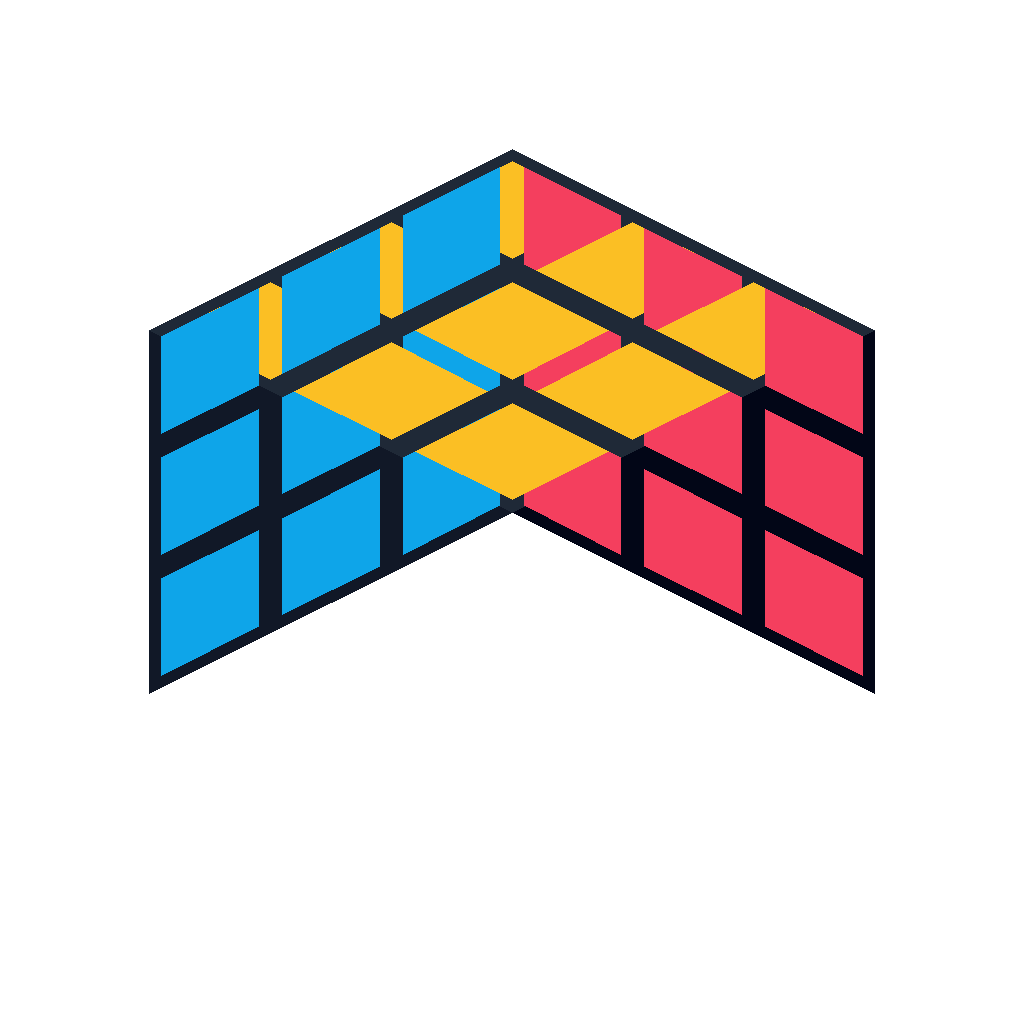
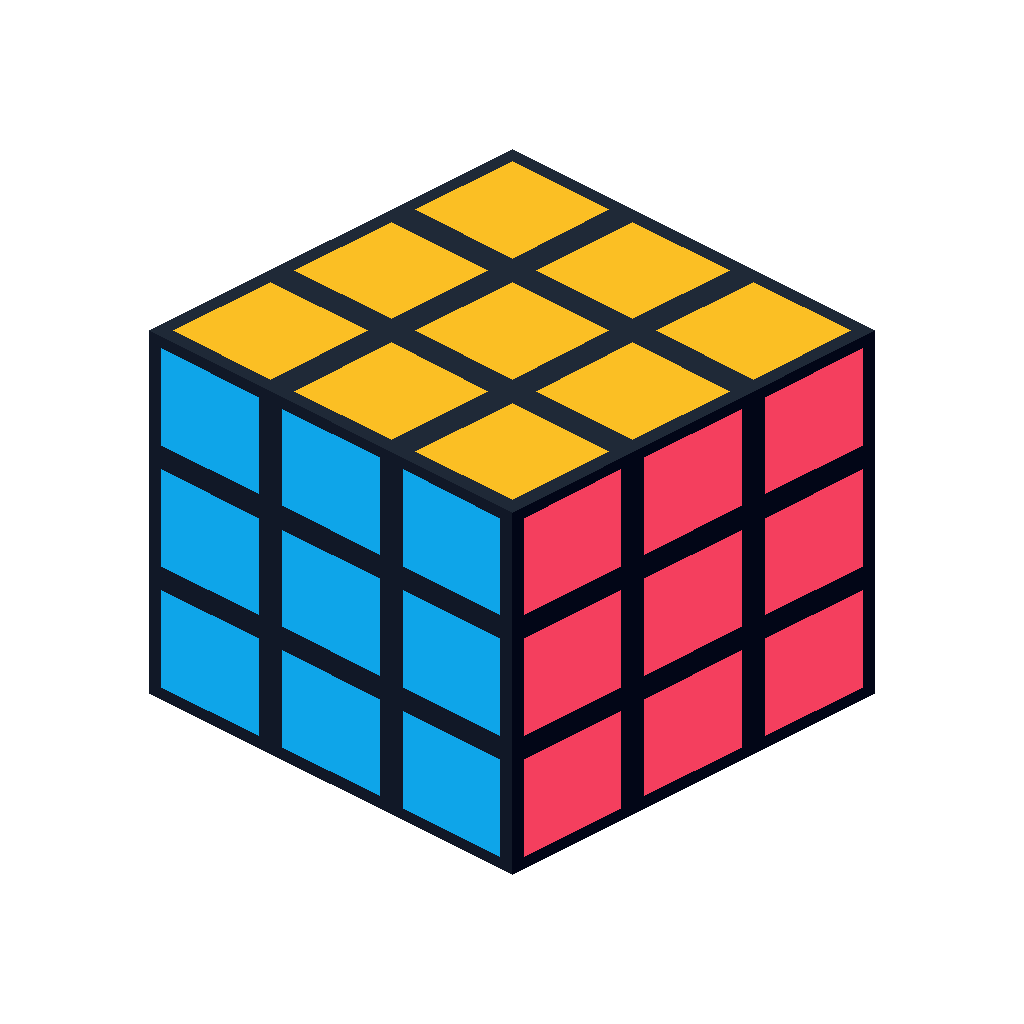
fix: compile Appearance setters, draw a solid isometric cube
setMode/setSeed/setPureBlack clashed with the generated property
setters and failed release compile. Visible cube faces are now z=3,
x=3, y=3 meeting at the front-top corner so the icon is a hexagon,
not a chevron.

Changed region(s): [[0.1562, 0.1562, 0.8438, 0.875]]

diff --git a/app/src/main/java/io/nekohasekai/sfa/compose/screen/settings/ThemeSettingsScreen.kt b/app/src/main/java/io/nekohasekai/sfa/compose/screen/settings/ThemeSettingsScreen.kt
@@ -111,21 +111,21 @@ fun ThemeSettingsScreen(navController: NavController) {
                             selected = Appearance.mode == "system",
                             icon = Icons.Outlined.PhoneAndroid,
                             label = stringResource(R.string.theme_mode_system),
-                            onClick = { Appearance.setMode("system") },
+                            onClick = { Appearance.applyMode("system") },
                         )
                         ModeChip(
                             modifier = Modifier.weight(1f),
                             selected = Appearance.mode == "light",
                             icon = Icons.Outlined.LightMode,
                             label = stringResource(R.string.theme_mode_light),
-                            onClick = { Appearance.setMode("light") },
+                            onClick = { Appearance.applyMode("light") },
                         )
                         ModeChip(
                             modifier = Modifier.weight(1f),
                             selected = Appearance.mode == "dark",
                             icon = Icons.Outlined.DarkMode,
                             label = stringResource(R.string.theme_mode_dark),
-                            onClick = { Appearance.setMode("dark") },
+                            onClick = { Appearance.applyMode("dark") },
                         )
                     }
                 }
@@ -158,7 +158,7 @@ fun ThemeSettingsScreen(navController: NavController) {
                                 seed = seed,
                                 selected = Appearance.seed == seed.id,
                                 wallpaper = seed.id == "dynamic",
-                                onClick = { Appearance.setSeed(seed.id) },
+                                onClick = { Appearance.applySeed(seed.id) },
                             )
                         }
                     }
@@ -179,7 +179,7 @@ fun ThemeSettingsScreen(navController: NavController) {
                     trailingContent = {
                         Switch(
                             checked = Appearance.pureBlack,
-                            onCheckedChange = Appearance::setPureBlack,
+                            onCheckedChange = Appearance::applyPureBlack,
                             enabled = Appearance.mode != "light",
                         )
                     },

diff --git a/app/src/main/java/io/nekohasekai/sfa/compose/theme/Appearance.kt b/app/src/main/java/io/nekohasekai/sfa/compose/theme/Appearance.kt
@@ -22,7 +22,8 @@ object Appearance {
         pureBlack = Settings.themePureBlack
     }
 
-    fun setMode(value: String) {
+    // apply* names avoid clashing with the generated property setters.
+    fun applyMode(value: String) {
         val next = when (value) {
             "light", "dark" -> value
             else -> "system"
@@ -31,12 +32,12 @@ object Appearance {
         mode = next
     }
 
-    fun setSeed(value: String) {
+    fun applySeed(value: String) {
         Settings.themeSeed = value.ifBlank { "default" }
         seed = Settings.themeSeed
     }
 
-    fun setPureBlack(value: Boolean) {
+    fun applyPureBlack(value: Boolean) {
         Settings.themePureBlack = value
         pureBlack = value
     }

diff --git a/scripts/gen_cube_icon.py b/scripts/gen_cube_icon.py
@@ -1,13 +1,16 @@
 #!/usr/bin/env python3
 """Generate a centered isometric Rubik's cube launcher icon.
 
-Visible faces (corner toward viewer) — three faces that actually meet:
-  正面 left  = x=0  sky-blue  #0EA5E9
-  侧面 right = z=0  rose      #F43F5E
+Visible faces of a solid cube (front vertical edge toward the viewer):
+  正面 left  = z=3  sky-blue  #0EA5E9
+  侧面 right = x=3  rose      #F43F5E
   顶   top   = y=3  amber     #FBBF24
 
-They meet at (0, 3, 0). Drawing x=0 and x=3 together is two opposite
-faces of the same axis, which leaves a hole and looks like an arch.
+They meet at (3, 3, 3). The silhouette is a hexagon.
+
+Wrong pairs:
+  x=0 + x=3  — two opposite faces of the same axis → arch / hole
+  x=0 + z=0  — near corner sits at the top → chevron / roof with a V-notch
 """
 from __future__ import annotations
 
@@ -19,7 +22,7 @@ ROOT = Path(__file__).resolve().parents[1]
 RES = ROOT / "app/src/main/res"
 
 PLASTIC = (17, 24, 39, 255)
-SKY = (14, 165, 233, 255)       # #0EA5E9 天蓝正面（比 sky-400 更深，小图标可辨）
+SKY = (14, 165, 233, 255)       # #0EA5E9 天蓝正面
 AMBER = (251, 191, 36, 255)     # #FBBF24 橙黄顶
 ROSE = (244, 63, 94, 255)       # #F43F5E 玫红侧面
 
@@ -47,20 +50,20 @@ def sticker_quad(face: str, i: int, j: int) -> list[tuple[float, float]]:
     a, b = i + g, j + g
     c, d = i + 1 - g, j + 1 - g
     if face == "front":
-        # x=0 left vertical: i → z, j → y
-        return [iso(0, b, a), iso(0, b, c), iso(0, d, c), iso(0, d, a)]
+        # z=3 left vertical: i → x, j → y
+        return [iso(a, b, 3), iso(c, b, 3), iso(c, d, 3), iso(a, d, 3)]
     if face == "top":
         return [iso(a, 3, b), iso(c, 3, b), iso(c, 3, d), iso(a, 3, d)]
-    # z=0 right vertical: i → x, j → y
-    return [iso(a, b, 0), iso(c, b, 0), iso(c, d, 0), iso(a, d, 0)]
+    # x=3 right vertical: i → z, j → y
+    return [iso(3, b, a), iso(3, b, c), iso(3, d, c), iso(3, d, a)]
 
 
 def face_outline(face: str) -> list[tuple[float, float]]:
     if face == "front":
-        return [iso(0, 0, 0), iso(0, 0, 3), iso(0, 3, 3), iso(0, 3, 0)]
+        return [iso(0, 0, 3), iso(3, 0, 3), iso(3, 3, 3), iso(0, 3, 3)]
     if face == "top":
         return [iso(0, 3, 0), iso(3, 3, 0), iso(3, 3, 3), iso(0, 3, 3)]
-    return [iso(0, 0, 0), iso(3, 0, 0), iso(3, 3, 0), iso(0, 3, 0)]
+    return [iso(3, 0, 0), iso(3, 0, 3), iso(3, 3, 3), iso(3, 3, 0)]
 
 
 def write_vector() -> None:
@@ -70,14 +73,14 @@ def write_vector() -> None:
         '    android:height="108dp"',
         '    android:viewportWidth="108"',
         '    android:viewportHeight="108">',
-        "    <!-- left=sky 正面, top=amber, right=rose; adaptive safe zone -->",
+        "    <!-- left=sky 正面 z=3, top=amber y=3, right=rose x=3; meet (3,3,3) -->",
     ]
     for face, color in (("front", "#111827"), ("right", "#020617"), ("top", "#1F2937")):
         parts.append(
             f'    <path android:fillColor="{color}" android:pathData="{path(face_outline(face))}" />'
         )
     colors = {"front": "#0EA5E9", "top": "#FBBF24", "right": "#F43F5E"}
-    for face in ("front", "top", "right"):
+    for face in ("front", "right", "top"):
         for i in range(3):
             for j in range(3):
                 parts.append(
@@ -113,10 +116,10 @@ def write_qs_tile() -> None:
     """White cube silhouette for QS tile + notification small icons."""
     def face(f: str) -> list[tuple[float, float]]:
         if f == "front":
-            return [qs_iso(0, 0, 0), qs_iso(0, 0, 3), qs_iso(0, 3, 3), qs_iso(0, 3, 0)]
+            return [qs_iso(0, 0, 3), qs_iso(3, 0, 3), qs_iso(3, 3, 3), qs_iso(0, 3, 3)]
         if f == "top":
             return [qs_iso(0, 3, 0), qs_iso(3, 3, 0), qs_iso(3, 3, 3), qs_iso(0, 3, 3)]
-        return [qs_iso(0, 0, 0), qs_iso(3, 0, 0), qs_iso(3, 3, 0), qs_iso(0, 3, 0)]
+        return [qs_iso(3, 0, 0), qs_iso(3, 0, 3), qs_iso(3, 3, 3), qs_iso(3, 3, 0)]
 
     parts = [
         '<vector xmlns:android="http://schemas.android.com/apk/res/android"',
@@ -138,10 +141,10 @@ def write_qs_brand() -> None:
     """Full-color cube for the quick-settings tile (not status-bar small icons)."""
     def face(f: str) -> list[tuple[float, float]]:
         if f == "front":
-            return [qs_iso(0, 0, 0), qs_iso(0, 0, 3), qs_iso(0, 3, 3), qs_iso(0, 3, 0)]
+            return [qs_iso(0, 0, 3), qs_iso(3, 0, 3), qs_iso(3, 3, 3), qs_iso(0, 3, 3)]
         if f == "top":
             return [qs_iso(0, 3, 0), qs_iso(3, 3, 0), qs_iso(3, 3, 3), qs_iso(0, 3, 3)]
-        return [qs_iso(0, 0, 0), qs_iso(3, 0, 0), qs_iso(3, 3, 0), qs_iso(0, 3, 0)]
+        return [qs_iso(3, 0, 0), qs_iso(3, 0, 3), qs_iso(3, 3, 3), qs_iso(3, 3, 0)]
 
     colors = {"front": "#0EA5E9", "right": "#F43F5E", "top": "#FBBF24"}
     parts = [
@@ -150,7 +153,7 @@ def write_qs_brand() -> None:
         '    android:height="24dp"',
         '    android:viewportWidth="24"',
         '    android:viewportHeight="24">',
-        "    <!-- AngelaBox cube for QS: left=sky 正面, right=rose, top=amber -->",
+        "    <!-- AngelaBox cube for QS: left=sky 正面 z=3, right=rose x=3, top=amber -->",
     ]
     for f in ("front", "right", "top"):
         parts.append(
@@ -182,23 +185,39 @@ def draw_cube(size: int) -> Image.Image:
         a, b = i + g, j + g
         c, d = i + 1 - g, j + 1 - g
         if face == "front":
-            pts = [p(0, b, a), p(0, b, c), p(0, d, c), p(0, d, a)]
+            pts = [p(a, b, 3), p(c, b, 3), p(c, d, 3), p(a, d, 3)]
         elif face == "top":
             pts = [p(a, 3, b), p(c, 3, b), p(c, 3, d), p(a, 3, d)]
         else:
-            pts = [p(a, b, 0), p(c, b, 0), p(c, d, 0), p(a, d, 0)]
+            pts = [p(3, b, a), p(3, b, c), p(3, d, c), p(3, d, a)]
         poly(pts, fill)
 
-    poly([p(0, 0, 0), p(0, 0, 3), p(0, 3, 3), p(0, 3, 0)], PLASTIC)
-    poly([p(0, 0, 0), p(3, 0, 0), p(3, 3, 0), p(0, 3, 0)], (2, 6, 23, 255))
+    poly([p(0, 0, 3), p(3, 0, 3), p(3, 3, 3), p(0, 3, 3)], PLASTIC)
+    poly([p(3, 0, 0), p(3, 0, 3), p(3, 3, 3), p(3, 3, 0)], (2, 6, 23, 255))
     poly([p(0, 3, 0), p(3, 3, 0), p(3, 3, 3), p(0, 3, 3)], (31, 41, 55, 255))
 
     for i in range(3):
         for j in range(3):
             sticker("front", i, j, SKY)
-            sticker("top", i, j, AMBER)
             sticker("right", i, j, ROSE)
+            sticker("top", i, j, AMBER)
     return img
+
+
+def assert_solid_cube(img: Image.Image) -> None:
+    """The former chevron notch (below the front-top corner) must be filled."""
+    w, h = img.size
+    samples = [
+        (w // 2, int(h * 0.68)),
+        (w // 2, int(h * 0.58)),
+        (int(w * 0.36), int(h * 0.58)),
+        (int(w * 0.64), int(h * 0.58)),
+        (w // 2, int(h * 0.32)),
+    ]
+    for x, y in samples:
+        px = img.getpixel((x, y))
+        if px[0] > 240 and px[1] > 240 and px[2] > 240:
+            raise SystemExit(f"cube not solid at {(x, y)}={px}; chevron hole still present")
 
 
 def round_mask(img: Image.Image) -> Image.Image:
@@ -251,6 +270,7 @@ def save_resized(master: Image.Image, path: Path, size: int, rounded: bool) -> N
 def main() -> None:
     write_vector()
     master = draw_cube(1024)
+    assert_solid_cube(master)
     sizes = {
         "mipmap-mdpi": 48,
         "mipmap-hdpi": 72,
@@ -277,8 +297,8 @@ def main() -> None:
     write_og(master, brand / "AngelaBox-og.png")
     write_og(master, hd / "AngelaBox-og.png")
     bbox_pts = [
-        iso(0, 0, 0), iso(0, 0, 3), iso(3, 0, 0), iso(3, 0, 3),
-        iso(0, 3, 0), iso(3, 3, 3),
+        iso(0, 0, 3), iso(3, 0, 0), iso(3, 0, 3),
+        iso(0, 3, 0), iso(3, 3, 0), iso(3, 3, 3), iso(0, 3, 3),
     ]
     xs = [p[0] for p in bbox_pts]
     ys = [p[1] for p in bbox_pts]

diff --git a/scripts/test_override_guards.py b/scripts/test_override_guards.py
@@ -301,18 +301,20 @@ def main() -> int:
         errors.append("launcher foreground must be a Rubik cube (orange-yellow top missing)")
     if "#0EA5E9" not in icon_fg:
         errors.append("launcher foreground 正面 must be saturated sky-blue #0EA5E9")
-    if "iso(0," not in gen and "x=0" not in gen:
-        errors.append("cube 正面 must be the left x=0 face, not z=0")
-    if "They meet at (0, 3, 0)" not in gen and "meet at (0, 3, 0)" not in gen:
-        errors.append("cube faces must meet at (0,3,0); drawing x=0 and x=3 is an arch")
-    if "z=0 right" not in gen and "侧面 z=0" not in gen and "right = z=0" not in gen:
-        errors.append("cube 侧面 must be z=0, not the opposite x=3 face")
+    if "They meet at (3, 3, 3)" not in gen and "meet at (3, 3, 3)" not in gen:
+        errors.append("cube faces must meet at (3,3,3) so the silhouette is a solid hexagon")
+    if "z=3" not in gen or "x=3" not in gen:
+        errors.append("cube 正面 is z=3 (left) and 侧面 is x=3 (right); x=0+z=0 is a chevron")
+    if "x=0 + z=0" not in gen and "chevron" not in gen:
+        errors.append("cube generator must document that x=0+z=0 is a chevron, not a cube")
     if "two opposite" not in gen:
         errors.append("cube generator must document that x=0 and x=3 are opposite faces")
     if "#F43F5E" not in icon_fg and "#E11D48" not in icon_fg:
         errors.append("launcher foreground must be a Rubik cube (rose face missing)")
     if "gift" in icon_fg.lower() and "cube" not in icon_fg.lower():
         errors.append("launcher foreground should be a cube, not a gift box")
+    if "assert_solid_cube" not in gen:
+        errors.append("cube generator must assert the silhouette is filled, not a chevron hole")
 
     logs = read("app/src/main/java/io/nekohasekai/sfa/compose/screen/log/LogModels.kt")
     if "filterLogLevel: LogLevel = LogLevel.INFO" not in logs:
@@ -579,8 +581,11 @@ def main() -> int:
     if "settings/theme" not in read("app/src/main/java/io/nekohasekai/sfa/compose/navigation/Navigation.kt"):
         errors.append("theme settings route missing")
     theme_ui = read("app/src/main/java/io/nekohasekai/sfa/compose/screen/settings/ThemeSettingsScreen.kt")
-    if "Appearance.setMode" not in theme_ui or "theme_pure_black" not in theme_ui:
+    if "Appearance.applyMode" not in theme_ui or "theme_pure_black" not in theme_ui:
         errors.append("theme page must expose mode and pure black")
+    appearance = read("app/src/main/java/io/nekohasekai/sfa/compose/theme/Appearance.kt")
+    if "fun setMode" in appearance or "fun setSeed" in appearance or "fun setPureBlack" in appearance:
+        errors.append("Appearance apply* methods must not be named setMode/setSeed/setPureBlack (JVM setter clash)")
     if "字体修复" in theme_ui or "深色图标" in theme_ui:
         errors.append("theme page must not copy ROM-specific font/icon toggles")
     if 'name="theme_settings"' not in cn:
